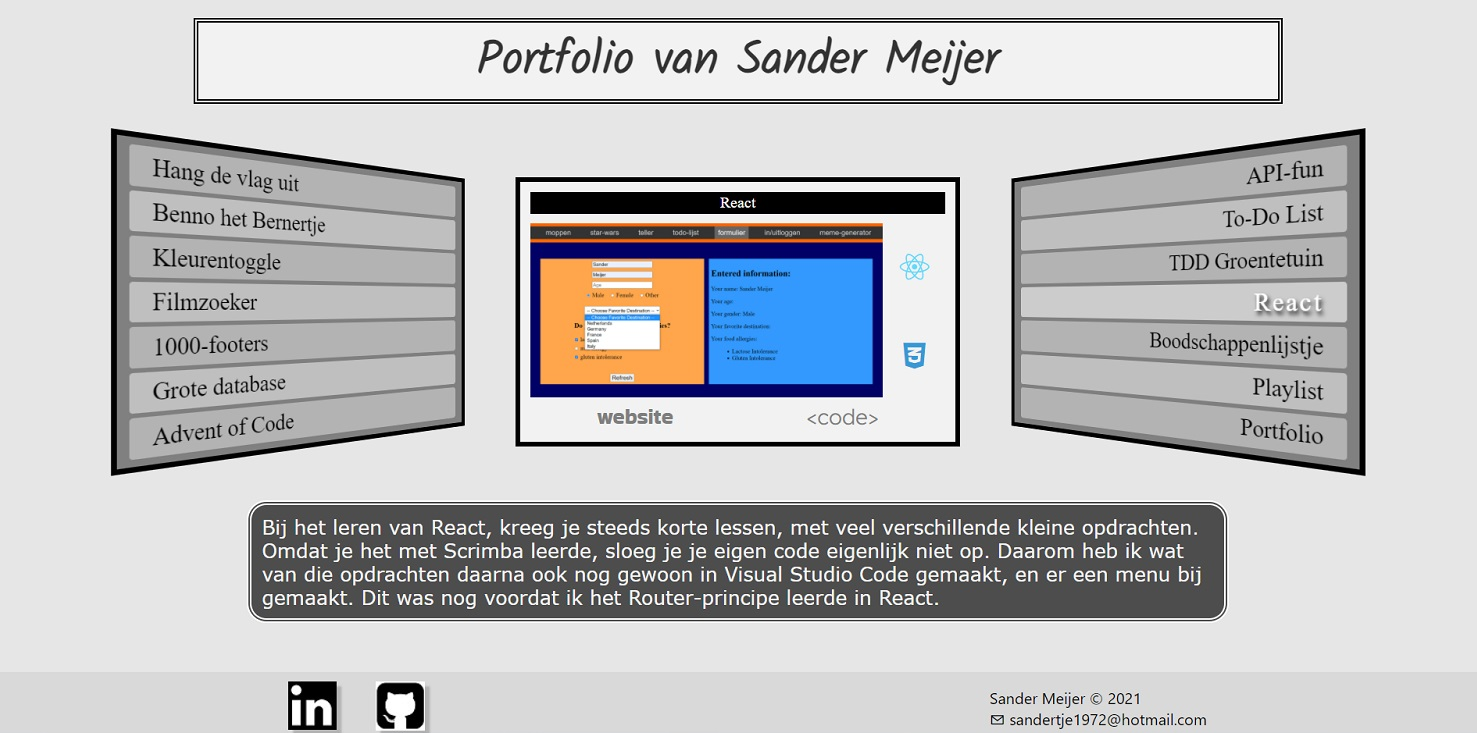
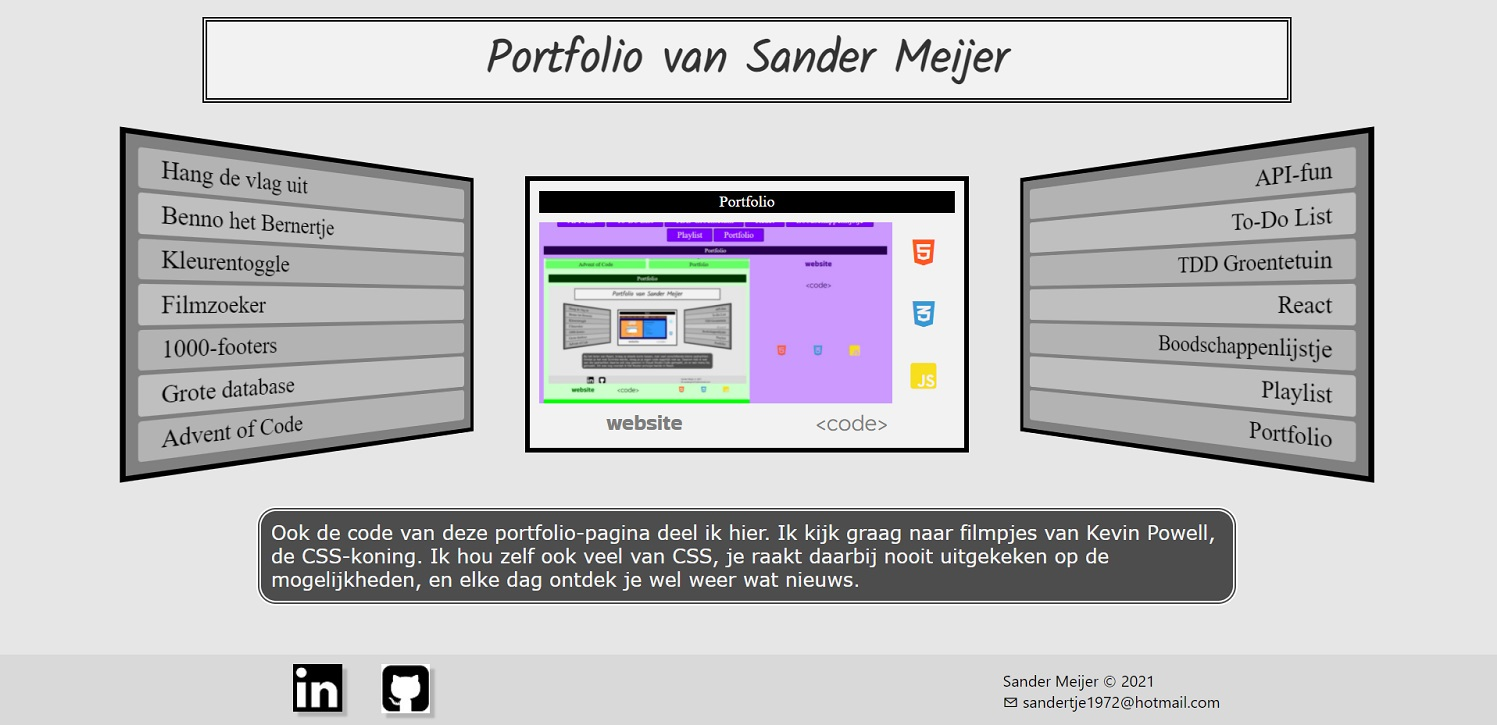
made better explanation text

diff --git a/data.js b/data.js
@@ -5,7 +5,7 @@ const assignments = [
         website: "https://quizzical-lovelace-909ccf.netlify.app/",
         github: "https://github.com/sandermeijer1972/Sander_Meijer-Hang_De_Vlag_Uit",
         programs: ["html", "css"],
-        text: "Dit was de eerste opdracht die nagekeken werd. Deze website is alleen met HTML en CSS gemaakt, en moest onderdelen als grid, flexbox en mediaqueries bevatten."
+        text: "Dit was de eerste opdracht die nagekeken werd door een leraar van Winc Academy. Deze website is alleen met HTML en CSS gemaakt, en moest onderdelen als grid, flexbox en mediaqueries bevatten. Het onderwerp moest je zelf bedenken, en de website moest ook meerdere pagina's hebben."
     },
     {
         title: "Benno het Bernertje",
@@ -13,7 +13,7 @@ const assignments = [
         website: "https://benno-test-kankervaccin.netlify.app/",
         github: "https://github.com/sandermeijer1972/benno",
         programs: ["html", "css"],
-        text: "Onze hond doet mee aan een onderzoek naar een vaccin tegen kanker. Omdat we daar veel vragen over kregen (en nog steeds krijgen) heb ik daar een pagina voor gemaakt, met daarop het hele verhaal. Gemaakt met HTML en CSS."
+        text: "Onze hond doet mee aan een onderzoek naar een vaccin tegen kanker. Omdat we daar veel vragen over kregen (en nog steeds krijgen) heb ik daar een pagina voor gemaakt, met daarop het hele verhaal. Gemaakt met HTML en CSS, en zoals aangeleerd bij Winc Academy, mobile first."
     },
     {
         title: "Kleurentoggle",
@@ -21,7 +21,7 @@ const assignments = [
         website: "https://hungry-ptolemy-2e50ff.netlify.app/",
         github: "https://github.com/sandermeijer1972/Sander_Meijer-Kleurentoggle",
         programs: ["html", "css", "javascript"],
-        text: "De eerste grotere opdracht met JavaScript. Hierbij moest gebruik worden gemaakt van DOM-manipulatie. Met behulp van event-listeners moesten er classes toegevoegd en verwijderd worden. Met transities moest het er wat flitsender uitzien allemaal."
+        text: "De eerste grotere opdracht met JavaScript. Hierbij moest gebruik worden gemaakt van DOM-manipulatie. Met behulp van event-listeners moesten er classes toegevoegd en verwijderd worden. Met transities moest het er wat flitsender uitzien allemaal. Door de goede feedback van de leraren bij Winc Academy leer je dat er een hoop dingen vereenvoudigd kunnen worden, en dat je niet steeds code herhaalt."
     },
     {
         title: "Filmzoeker",
@@ -29,7 +29,7 @@ const assignments = [
         website: "https://admiring-goldberg-8a03d3.netlify.app/",
         github: "https://github.com/sandermeijer1972/Sander_Meijer-filmzoeker",
         programs: ["html", "css", "javascript"],
-        text: "Bij deze opdracht moest je elementen toevoegen aan de DOM. Alle data stond in een database, en daar moest je ook wat dingen uit filteren."
+        text: "Bij deze opdracht moest je elementen vanuit een database toevoegen aan de DOM. Door gebruik te maken van de input van de gebruiker moest je ook de juiste dingen er uit zien te filteren. Ik heb wel zelf de database met filmtitels aangepast, omdat het genre wat meegegeven werd mij totaal niet boeide. Gelukkig doen ze daar bij Winc Academy niet moeilijk over, het gaat er tenslotte om dat je je geleerde vaardigheden kan laten zien."
     },
     {
         title: "1000-footers",
@@ -37,7 +37,7 @@ const assignments = [
         website: "https://great-lakes-1000footers.netlify.app/",
         github: "https://github.com/sandermeijer1972/GreatLakes",
         programs: ["html", "css", "javascript"],
-        text: "Nadat ik een tijdje bezig was met React, heb ik voor mezelf nog een website gemaakt met Vanilla JavaScript. Het is de bedoeling dat ik deze zelfde website ook nog ga maken met React."
+        text: "Nadat ik een tijdje bezig was met React, heb ik voor mezelf nog een website gemaakt met 'gewoon' JavaScript. Wel weer even inkomen, want je moet hier echt stap voor stap te werk gaan om iets in de DOM te plaatsen. Het is mijn bedoeling dat ik deze zelfde website ook nog ga maken met React."
     },
     {
         title: "Grote Database",
@@ -45,7 +45,7 @@ const assignments = [
         website: "https://romantic-thompson-cbba2b.netlify.app/",
         github: "https://github.com/sandermeijer1972/grote_arrays",
         programs: ["html", "css", "javascript"],
-        text: "Bij deze opdracht zat een hele grote database. Voor elke sub-opdracht moest je gaan filteren om de juiste gegevens door middel van DOM-manipulatie op de pagina te krijgen. Je leerde hier veel over array-methods, en dan met name map, filter en reduce."
+        text: "Bij deze opdracht zat een hele grote database. Voor elke sub-opdracht moest je gaan filteren om de juiste gegevens door middel van DOM-manipulatie op de pagina te krijgen. Je leerde hier veel over array-methods, en dan met name .map, .filter en .reduce."
     },
     {
         title: "Advent of Code",
@@ -61,7 +61,7 @@ const assignments = [
         website: "https://knoppen-pagina.netlify.app/",
         github: "https://github.com/sandermeijer1972/API_fun",
         programs: ["html", "css", "javascript"],
-        text: "Bij deze opdracht moest je je data via een API binnen zien te krijgen. Omdat ik moeite had met deze stof, heb ik er uiteindelijk 10 gebruikt. Bij Winc Academy word je ook gestimuleerd om anderen te helpen met coderings-problemen. Op het moment dat ik met deze opdracht bezig was, hielp ik iemand met transities. Omdat die stof bij mij ook aardig weggezakt was, heb ik dat bij deze opdracht weer eens flink opgehaald."
+        text: "Bij deze opdracht moest je je data via een API binnen zien te krijgen. Omdat ik moeite had met deze stof, heb ik er uiteindelijk 10 gebruikt. Bij Winc Academy word je ook gestimuleerd om anderen te helpen met coderings-problemen. Op het moment dat ik met deze opdracht bezig was, hielp ik iemand met transities. Omdat die stof bij mij ook aardig weggezakt was, heb ik dat bij deze opdracht weer eens flink opgehaald en er een over-de-top pagina van gemaakt."
     },
     {
         title: "To-Do List",
@@ -77,7 +77,7 @@ const assignments = [
         website: "https://sanders-groentetuin.netlify.app/",
         github: "https://github.com/sandermeijer1972/Sander_Meijer-TDD_groentetuin",
         programs: ["html", "css", "javascript", "jest"],
-        text: "Bij deze opdracht ging het om Test Driven Development. Omdat ik graag aan anderen wil laten zien wat ik zoal maak tijdens de opleiding, heb ik er ook een hele front-end aan vast gemaakt. Je kan dus zelf een groentetuin beginnen, en een schatting maken wat je opbrengst zal zijn."
+        text: "Bij deze opdracht ging het om Test Driven Development. Met Jest moest je je functies testen of ze goed werkten. Omdat ik graag aan anderen wil laten zien wat ik zoal maak tijdens de opleiding, en er met Jest niet zoveel te zien valt op een website, heb ik er ook een hele front-end aan vast gemaakt. Je kan nu dus zelf een groentetuin beginnen, en een schatting maken wat je opbrengst zal zijn bij wisselende factoren."
     },
     {
         title: "React",
@@ -85,7 +85,7 @@ const assignments = [
         website: "https://elegant-galileo-988d19.netlify.app/",
         github: "https://github.com/sandermeijer1972/react-module-8/tree/master/src/opdrachten/combi",
         programs: ["react", "css"],
-        text: "Bij het leren van React, kreeg je steeds korte lessen, met veel verschillende kleine opdrachten. Omdat je het met Scrimba leerde, sloeg je je eigen code eigenlijk niet op. Daarom heb ik wat van die opdrachten daarna ook nog gewoon in Visual Studio Code gemaakt, en er een menu bij gemaakt. Dit was nog voordat ik het Router-principe leerde in React."
+        text: "Bij het leren van React, kreeg je steeds korte lessen, met veel verschillende kleine opdrachten. Omdat je het met Scrimba leerde, sloeg je je eigen code eigenlijk niet op. Daarom heb ik later ook nog gewoon in Visual Studio Code wat van deze opdrachten gemaakt, en er een menu bij gemaakt. Dit was nog voordat ik het Router-principe leerde in React."
     },
     {
         title: "Boodschappenlijstje",
@@ -93,7 +93,7 @@ const assignments = [
         website: "https://boodschappendoen.netlify.app/",
         github: "https://github.com/sandermeijer1972/react-module-8/tree/master/src/opdrachten/boodschappenlijst",
         programs: ["react", "css"],
-        text: "De eerste react-opdracht die je in Visual Studio Code moest maken. Een erg leuke opdracht, maar wel moeilijk."
+        text: "De eerste React-opdracht die je in Visual Studio Code moest maken. Een erg leuke opdracht, maar wel moeilijk. Vooral het doorgeven van props was hier een flinke heuvel die overwonnen moest worden. Ik ben ook wel een tijdje bezig geweest om het turven op je boodschappenbriefje goed te krijgen."
     },
     {
         title: "Playlist",
@@ -101,7 +101,7 @@ const assignments = [
         website: "https://sanders-playlist.netlify.app/",
         github: "https://github.com/sandermeijer1972/Sander_Meijer-Lil-Playlist",
         programs: ["react", "css"],
-        text: "Bij deze opdracht moest je ook gebruik maken van React-Router. Omdat het een opdracht met muziek was, was dit echt een hele leuke opdracht."
+        text: "Bij deze opdracht moest je ook gebruik maken van React-Router. Je mocht hier ook kiezen om de opdracht met redux te maken. Het principe daarvan begrijp ik wel, maar om het daadwerkelijk in elkaar te zetten, dat lukte niet. Dus het is bij React gebleven. Omdat het een opdracht over muziek was, was dit echt een hele leuke opdracht."
     },
     {
         title: "Portfolio",
@@ -109,6 +109,6 @@ const assignments = [
         website: "https://sandermeijer.netlify.app/",
         github: "https://github.com/sandermeijer1972/portfolio",
         programs: ["html", "css", "javascript"],
-        text: "Ook de code van deze portfolio-pagina deel ik hier. Ik kijk graag naar filmpjes van Kevin Powell, de CSS-koning. Ik hou zelf ook veel van CSS, je raakt daarbij nooit uitgekeken op de mogelijkheden, en elke dag ontdek je wel weer wat nieuws."
+        text: "Ook de code van deze portfolio-pagina deel ik hier. Ik heb zoveel mogelijk technieken proberen te gebruiken die ik geleerd heb. Wat mij het meest uitdaagt met coderen is hoe het er uiteindelijk uit komt te zien. Ik kijk graag naar filmpjes van Kevin Powell, de ongekroonde CSS-koning, en daar doe ik veel ideeën op om ook eens te proberen te maken. Je raakt eigenlijk nooit uitgekeken op de mogelijkheden, en elke dag ontdek je wel weer wat nieuws."
     },    
 ];

diff --git a/index.html b/index.html
@@ -51,7 +51,7 @@
                 In februari 2021 ben ik begonnen aan de Front-End Development opleiding bij Winc Academy. Nu ik bijna klaar ben, heb ik op deze pagina wat van de opdrachten gezet die tijdens de opleiding gemaakt moesten worden, en tevens een paar websites die ik voor mezelf gemaakt heb. Ik zit er ook aan te denken om hierna nog verder te gaan met de Back-End opleiding.
             </div>
             <div>
-                Naast het programmeren hou ik heel erg van muziek. En dan zowel er naar luisteren als het zelf maken. Als 10-jarig jochie begonnen met trommelen bij de drumband, en later ook gaan spelen in de steelband die binnen de vereniging opgericht werd. Daar heb ik eerst jaren op de bas gespeeld, en ben nu ook de tenor (melodie) aan het leren. Ook onze leerlingen geef ik les.
+                Naast het programmeren hou ik heel erg van muziek. En dan zowel er naar luisteren als het zelf maken. Als 10-jarig jochie begonnen met trommelen bij de drumband, en later ook gaan spelen in de steelband die binnen de vereniging opgericht werd. Daar heb ik eerst jaren op de bas gespeeld, en ben nu ook de tenor (melodie) aan het leren. Ook onze leerlingen geef ik les. Naast de muziek lees en fiets ik graag, en hou ik van dingen ondernemen met onze honden.
             </div>                
         </section> 
     </main>
